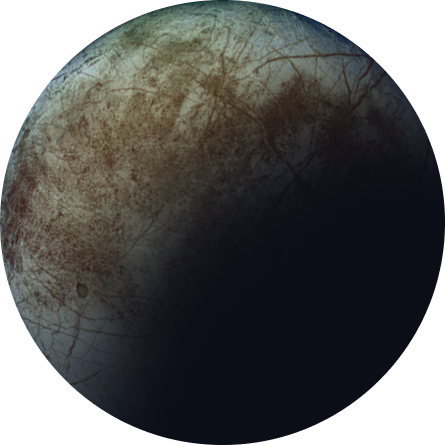
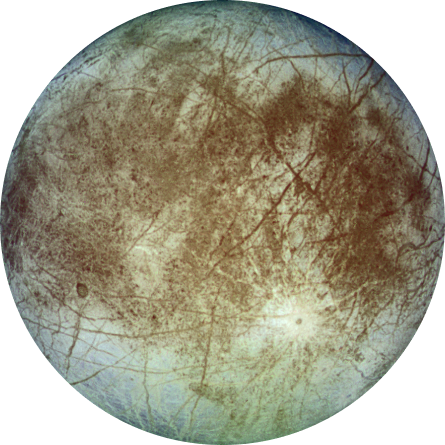
Complete data in destination

diff --git a/app/destination/page.tsx b/app/destination/page.tsx
@@ -1,9 +1,18 @@
 "use client";
 import React from "react";
+import destinations from "./destination.json";
 import Image from "next/image";
 import gsap from "gsap";
-export default function DestinationPage() {
-  const image = ["moon", "mars", "europa", "titan"];
+import Tab from "@/components/tab/tab";
+import DestinationContent from "@/components/destinyContent/destinyContent";
+import { motion } from "framer-motion";
+export default function destinationPage() {
+  const [selectedPlanet, setSelectedPlanet] = React.useState(
+    destinations[0].planet
+  );
+  const selectedDestination = destinations.find(
+    (destination) => destination.planet === selectedPlanet
+  );
   React.useEffect(() => {
     const starContainer = document.querySelector(".star-container");
     const star = document.querySelector(".destination");
@@ -25,23 +34,42 @@ export default function DestinationPage() {
     }
   }, []);
   return (
-    <div className="w-3/5">
-      <h5 className="text-h5 tracking-h5 uppercase">
-        <span>01</span> Pick your destination
-      </h5>
-      <div className="relative top-0 left-0 w-full h-full flex justify-center items-center">
-        <div className="star-container opacity-0 relative w-fit h-fit rounded-full overflow-hidden bg-primary shadow-star shadow-white">
-          <div className="absolute -bottom-[26rem] w-[761px] h-[761px] bg-primary rounded-full z-[1] blur-2xl"></div>
-          <Image
-            src="/media/moon.png"
-            alt=""
-            width={445}
-            height={445}
-            className="destination w-auto m-auto relative z-[0]"
-            priority
-          />
+    <>
+      <div className="w-full h-[80%] mt-[auto] px-[11.458vw] pb-32 flex text-white relative z-[0]">
+        <div className="w-3/5">
+          <h5 className="text-h5 tracking-h5 uppercase">
+            <span>01</span> Pick your destination
+          </h5>
+          <div className="relative top-0 left-0 w-full h-full flex justify-center items-center">
+            <motion.div
+              initial={{ opacity: 0 }}
+              animate={{ opacity: 1 }}
+              transition={{ duration: 0.5 }}
+              className="star-container opacity-0 relative w-fit h-fit rounded-full overflow-hidden bg-primary shadow-star shadow-white"
+            >
+              <div className="absolute -bottom-[26rem] w-[761px] h-[761px] bg-primary rounded-full z-[1] blur-2xl"></div>
+              {selectedDestination ? (
+                <Image
+                  src={selectedDestination.img}
+                  alt={selectedDestination.planet}
+                  width={445}
+                  height={445}
+                  className="destination w-auto m-auto relative z-[0]"
+                  priority
+                />
+              ) : (
+                <p>Destination not found</p>
+              )}
+            </motion.div>
+          </div>
+        </div>
+        <div className="w-2/5 min-h-[445px] h-full flex flex-col">
+          <Tab destinations={destinations} onPlanetSelect={setSelectedPlanet} />
+          {selectedDestination && (
+            <DestinationContent destination={selectedDestination} />
+          )}
         </div>
       </div>
-    </div>
+    </>
   );
 }

diff --git a/components/destinyContent/destinyContent.tsx b/components/destinyContent/destinyContent.tsx
@@ -1,21 +1,23 @@
 "use client";
 import React from "react";
-export interface DestinationPath {
-  destination: string;
+interface Destination {
+  img: string;
+  planet: string;
+  description: string;
+  avgdistance: string;
+  travelTime: string;
 }
-const DestinyContent: React.FC<DestinationPath> = ({ destination }) => {
-  const [currentDestination, setCurrentDestination] =
-    React.useState(destination);
+interface DestinationContentProps {
+  destinations: Destination[];
+}
+const DestinationContent = ({ destination }: any) => {
   return (
     <div className="flex flex-col">
       <h2 className="font-bellefair text-h2 uppercase my-9">
-        {currentDestination}
+        {destination.planet}
       </h2>
       <p className="leading-8 text-purple text-bodytxt pb-7">
-        See our planet as you’ve never seen it before. A perfect relaxing trip
-        away to help regain perspective and come back refreshed. While you’re
-        there, take in some history by visiting the Luna 2 and Apollo 11 landing
-        sites.
+        {destination.description}
       </p>
       <hr className="my-7" />
       <div className="w-full flex">
@@ -23,21 +25,19 @@ const DestinyContent: React.FC<DestinationPath> = ({ destination }) => {
           <p className="label text-purple text-sm tracking-subheading mb-3">
             AVG. DISTANCE
           </p>
-          <p className="text-subh1 font-bellefair">
-            384,400 <span>km</span>
+          <p className="text-subh1 font-bellefair uppercase">
+            {destination.avgdistance}
           </p>
         </div>
         <div className="w-1/2 uppercase">
           <p className="label text-purple text-sm tracking-subheading mb-3">
             Est. travel time
           </p>
-          <p className="text-subh1 font-bellefair">
-            3 <span>days</span>
-          </p>
+          <p className="text-subh1 font-bellefair">{destination.travelTime}</p>
         </div>
       </div>
     </div>
   );
 };
 
-export default DestinyContent;
+export default DestinationContent;

diff --git a/components/tab/tab.tsx b/components/tab/tab.tsx
@@ -2,25 +2,28 @@
 import React from "react";
 import Link from "next/link";
 import classes from "./tab.module.css";
-export interface DestinationPath {
-  destination: string;
+interface Destination {
+  img: string;
+  planet: string;
+  description: string;
+  avgdistance: string;
+  travelTime: string;
 }
-const Tab = ({ destination }: DestinationPath) => {
+interface TabProps {
+  destinations: Destination[];
+}
+const Tab = ({ destinations, onPlanetSelect }: any) => {
   return (
     <div className="flex flex-col justify-center">
       <ul className="flex gap-10">
-        {["moon", "mars", "europa", "titan"].map((item, index) => {
-          return (
-            <div
-              key={index}
-              className={`flex justify-end items-center tracking-navtxt ${classes.active}`}
-            >
-              <li className="w-fit h-8 uppercase">
-                <Link href={"/"}>{item}</Link>
-              </li>
-            </div>
-          );
-        })}
+        {destinations.map((item: any) => (
+          <li
+            key={item.planet}
+            className="flex justify-end items-center tracking-navtxt w-fit h-8 uppercase cursor-pointer"
+          >
+            <a onClick={() => onPlanetSelect(item.planet)}>{item.planet}</a>
+          </li>
+        ))}
       </ul>
     </div>
   );

diff --git a/app/destination/layout.tsx b/app/destination/layout.tsx
@@ -1,23 +1,9 @@
 "use client";
 import React from "react";
-import { usePathname } from "next/navigation";
-import Tab from "@/components/tab/tab";
-import DestinyContent from "@/components/destinyContent/destinyContent";
 export default function DestinationLayout({
   children,
 }: Readonly<{
   children: React.ReactNode;
 }>) {
-  const pathname = usePathname();
-  return (
-    <>
-      <div className="w-full h-[80%] mt-[auto] px-[11.458vw] pb-32 flex text-white relative z-[0]">
-        {children}
-        <div className="w-2/5 min-h-[445px] h-full flex flex-col justify-center">
-          <Tab destination={pathname} />
-          <DestinyContent destination={pathname} />
-        </div>
-      </div>
-    </>
-  );
+  return <>{children}</>;
 }
